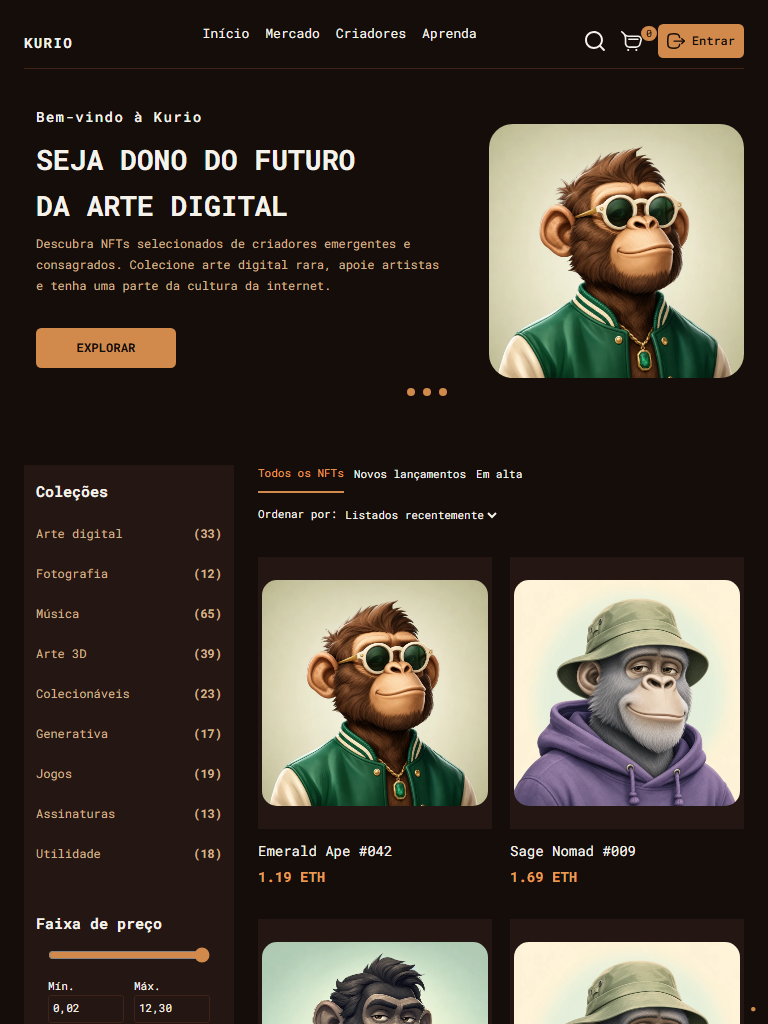
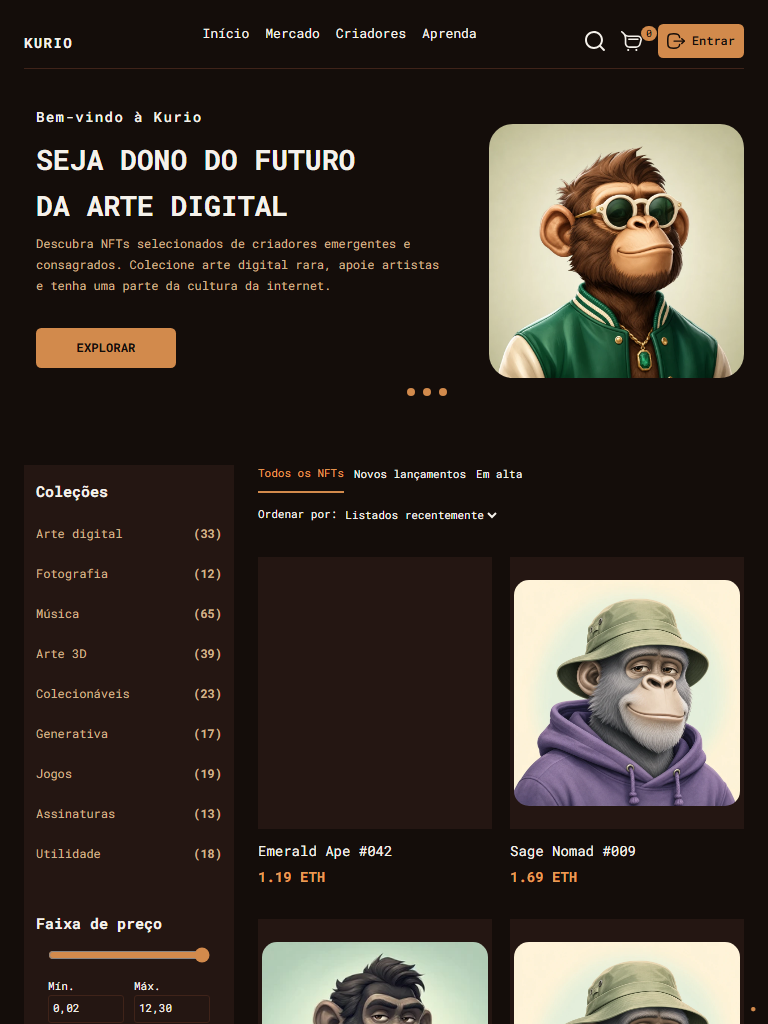
Document public deployment and verified remote purchase flow

Changed region(s): [[0.3438, 0.5625, 0.6562, 0.8125]]

diff --git a/README.md b/README.md
@@ -1,5 +1,7 @@
 # Kurio — NFT Marketplace
 
+**[Abrir demonstração pública](https://kurio-nft-marketplace-kappa.vercel.app)** · [Código-fonte](https://github.com/vitorgamer778/kurio-nft-marketplace) · [Autoavaliação](EVALUATION.md)
+
 Implementação do desafio [Jungle Gaming](https://github.com/junglegaming/frontend-challenge), em React e TypeScript. O enunciado original foi preservado em CHALLENGE.md. Identidade visual e artes provenientes do [Figma indicado](https://www.figma.com/design/Ff0SksUi7UFtPWUO8kyNtw/Frontend-Challenge?node-id=0-1).
 
 ## Executar
@@ -73,5 +75,7 @@ Assets e fontes são locais; não dependem de URLs temporárias do Figma. As art
 API.md descreve contratos e erros. ARCHITECTURE.md registra precisão, sessão, persistência, cache, idempotência, transporte e desvios visuais. EVALUATION.md registra a autoavaliação e as limitações, apoiada por testes e Lighthouse.
 
 ## Publicação
+
+A aplicação foi publicada na Vercel e verificada sem autenticação de hospedagem. O smoke test da versão pública exercita acesso direto, carrinho visitante, retorno do login, Socket.IO, rejeição de cotação antiga, compra confirmada, refresh do recibo e mobile. Evidência: verification/deployment-smoke.json. Relatório Playwright versionado: verification/playwright-report/index.html.
 
 O projeto inclui vercel.json com fallback SPA para refresh e acesso direto às rotas. Build: npm run build. Output: dist. A versão publicada deve manter mocks ativos e disponibilizar mockServiceWorker.js na raiz. Uma URL só deve ser apresentada como publicada após verificação do deployment.

diff --git a/EVALUATION.md b/EVALUATION.md
@@ -44,6 +44,8 @@ Os relatórios individuais HTML/JSON e audits/summary.json registram versões, h
 
 ## Limitações explícitas
 
+Demonstração pública: https://kurio-nft-marketplace-kappa.vercel.app. O build da Vercel corresponde aos mesmos bundles verificados localmente. O smoke test remoto foi executado sem login da Vercel, incluindo compra simulada e alteração de preço pelo socket. O recibo é acessível após refresh, e os itens comprados saem do carrinho.
+
 - Não há blockchain, gateway de pagamento, OAuth social, envio de newsletter ou explorador real; isso é coerente com o escopo do desafio.
 - Não é alegada equivalência pixel a pixel de todos os frames.
 - Persistência da simulação é por navegador. Carteiras e recibos são fictícios.
